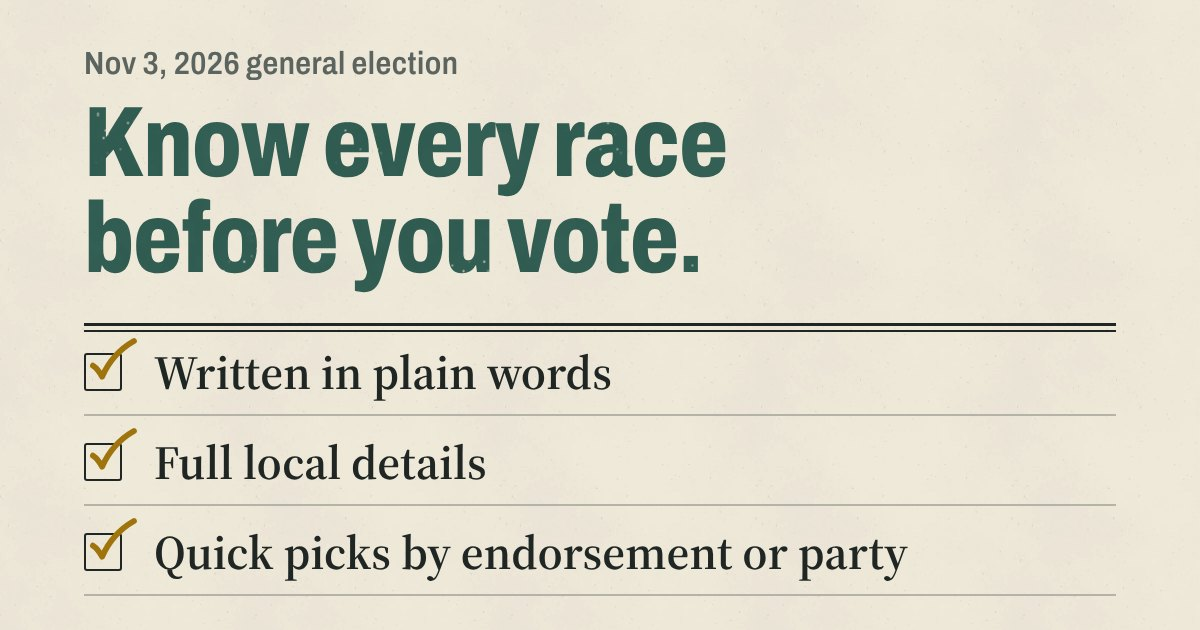
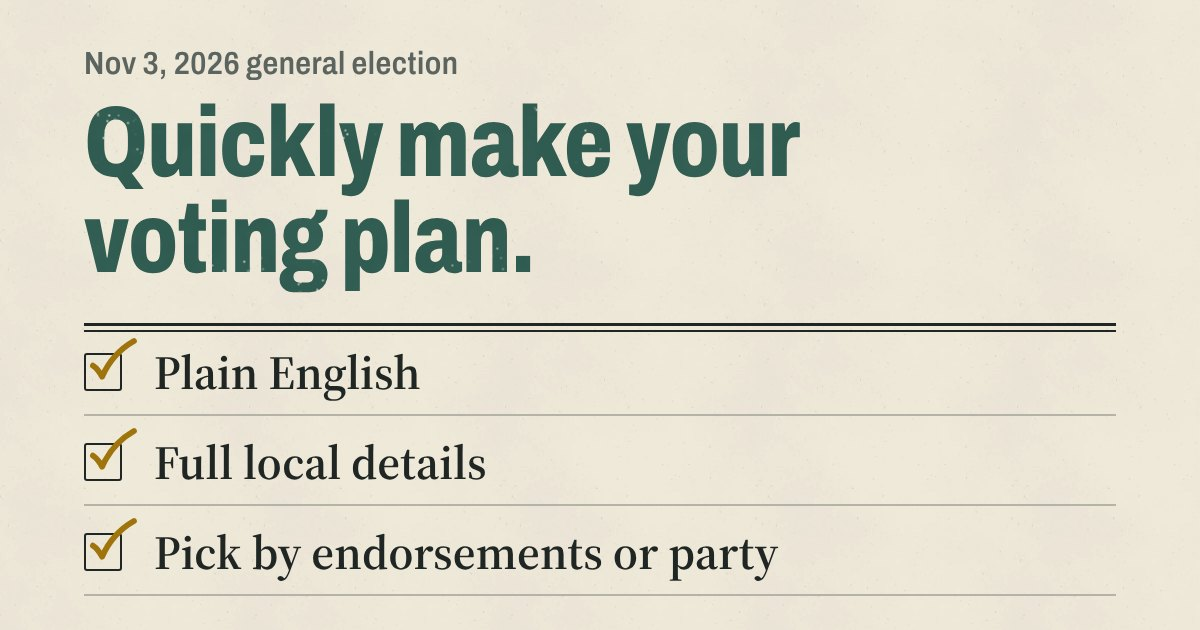
Link card: Quickly make your voting plan. Plain English, full local details, pick by endorsements or party
Kevin's headline and lines. Endorsements come before party, the same order
as the guide; the headline carries "quickly", so the third line doesn't
repeat it.

Claude-Session: https://claude.ai/code/session_01Pn6KutojD9efvnJUpTYCh8

Changed region(s): [[0.0617, 0.1508, 0.6783, 0.4825], [0.1233, 0.8444, 0.7708, 0.9349], [0.1233, 0.5429, 0.5242, 0.6333]]

diff --git a/index.html b/index.html
@@ -18,7 +18,7 @@
   <meta property="og:image" content="https://vote.kevinhg.com/og.jpg">
   <meta property="og:image:width" content="1200">
   <meta property="og:image:height" content="630">
-  <meta property="og:image:alt" content="Know every race before you vote. Written in plain words. Full local details. Quick picks by endorsement or party.">
+  <meta property="og:image:alt" content="Quickly make your voting plan. Plain English. Full local details. Pick by endorsements or party.">
   <meta name="twitter:card" content="summary_large_image">
   <link rel="preconnect" href="https://fonts.googleapis.com">
   <link rel="preconnect" href="https://fonts.gstatic.com" crossorigin>
